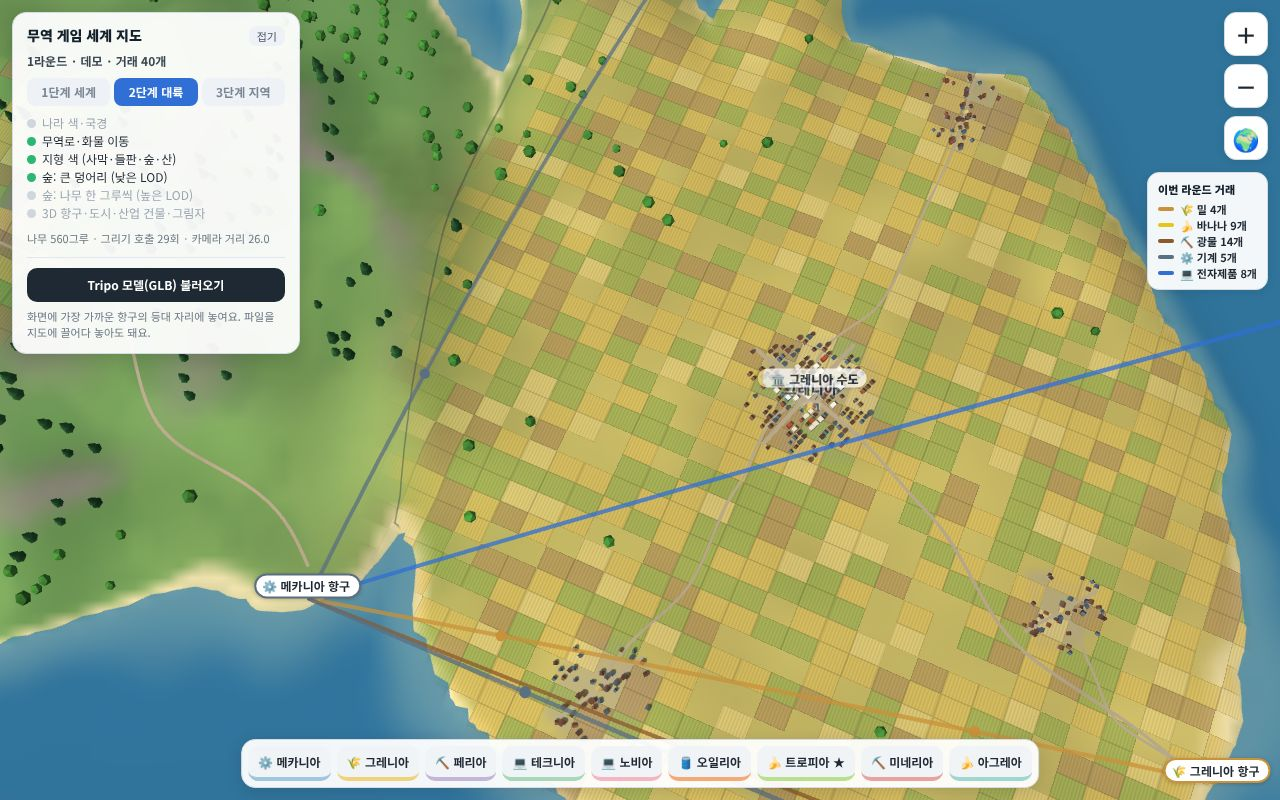
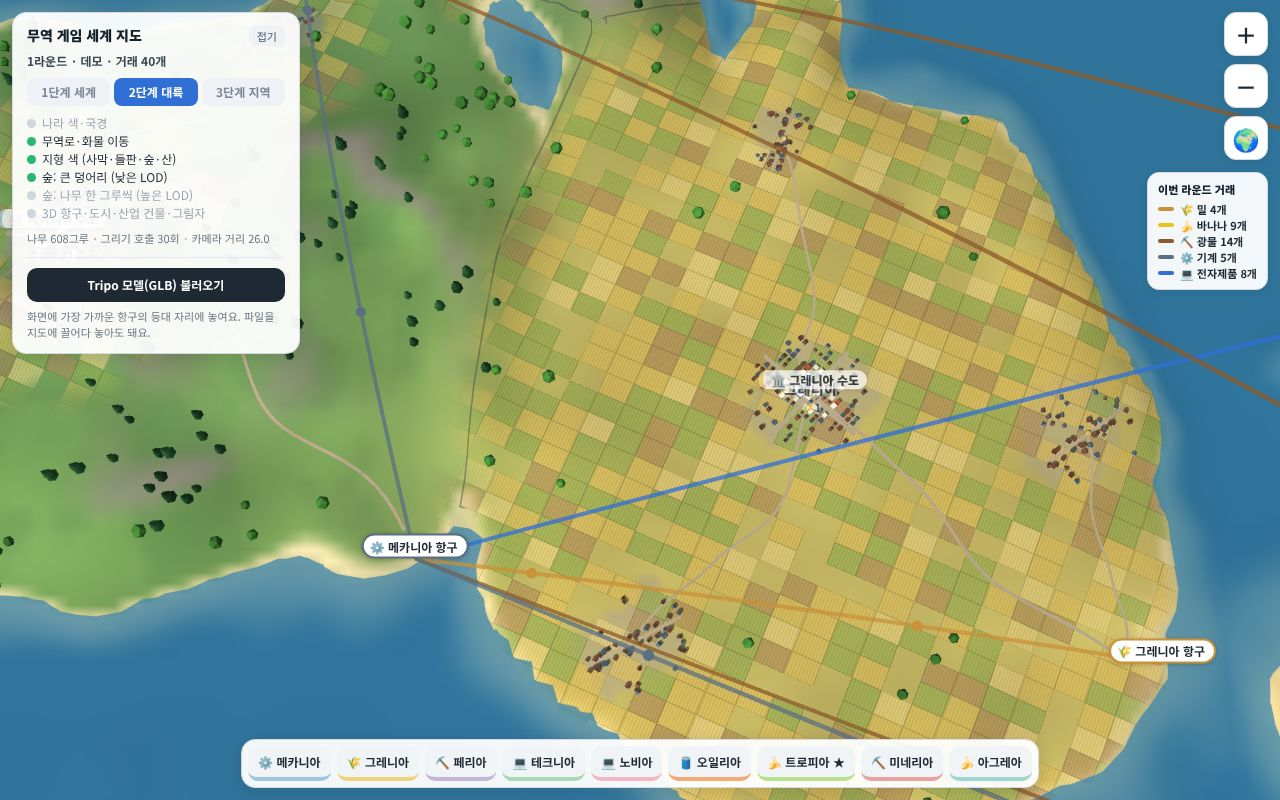
세계 지도: 세계 크기 0.65 → 0.55
나라가 조금 더 작아지고 항구·도시가 상대적으로 크게 보임. 검사 15개 통과.

Claude-Session: https://claude.ai/code/session_01DBh8zz2smfNDqNuUWMpsJ4

diff --git a/webapp/map/dist/world-map-demo.html b/webapp/map/dist/world-map-demo.html
@@ -19,7 +19,7 @@ function createWorldMap(container, THREE, opts) {
   opts = opts || {};
   // ───────────────────────── 상수 ─────────────────────────
   // 세계 크기 비율: 나라 배치·모양은 그대로 두고 전체 크기만 바꾼다(1 = 처음 크기). 항구·집·나무 크기는 그대로다.
-  var S = opts.worldScale || 0.65;
+  var S = opts.worldScale || 0.55;
   var WX = Math.round(100 * S), WZ = Math.round(62 * S), CELL = 0.25, FW = Math.round(2 * WX / CELL), FH = Math.round(2 * WZ / CELL);
   var GROUND_Y = 0.12, QUAY_TOP = 0.2;
   var DMIN = 1.6, DMAX = Math.round(190 * S);

diff --git a/webapp/map/dist/world-map-demo.jsx b/webapp/map/dist/world-map-demo.jsx
@@ -10,7 +10,7 @@ function createWorldMap(container, THREE, opts) {
   opts = opts || {};
   // ───────────────────────── 상수 ─────────────────────────
   // 세계 크기 비율: 나라 배치·모양은 그대로 두고 전체 크기만 바꾼다(1 = 처음 크기). 항구·집·나무 크기는 그대로다.
-  var S = opts.worldScale || 0.65;
+  var S = opts.worldScale || 0.55;
   var WX = Math.round(100 * S), WZ = Math.round(62 * S), CELL = 0.25, FW = Math.round(2 * WX / CELL), FH = Math.round(2 * WZ / CELL);
   var GROUND_Y = 0.12, QUAY_TOP = 0.2;
   var DMIN = 1.6, DMAX = Math.round(190 * S);

diff --git a/webapp/map/src/map-core.js b/webapp/map/src/map-core.js
@@ -5,7 +5,7 @@ function createWorldMap(container, THREE, opts) {
   opts = opts || {};
   // ───────────────────────── 상수 ─────────────────────────
   // 세계 크기 비율: 나라 배치·모양은 그대로 두고 전체 크기만 바꾼다(1 = 처음 크기). 항구·집·나무 크기는 그대로다.
-  var S = opts.worldScale || 0.65;
+  var S = opts.worldScale || 0.55;
   var WX = Math.round(100 * S), WZ = Math.round(62 * S), CELL = 0.25, FW = Math.round(2 * WX / CELL), FH = Math.round(2 * WZ / CELL);
   var GROUND_Y = 0.12, QUAY_TOP = 0.2;
   var DMIN = 1.6, DMAX = Math.round(190 * S);

diff --git a/webapp/map/world-map.js b/webapp/map/world-map.js
@@ -6,7 +6,7 @@ function createWorldMap(container, THREE, opts) {
   opts = opts || {};
   // ───────────────────────── 상수 ─────────────────────────
   // 세계 크기 비율: 나라 배치·모양은 그대로 두고 전체 크기만 바꾼다(1 = 처음 크기). 항구·집·나무 크기는 그대로다.
-  var S = opts.worldScale || 0.65;
+  var S = opts.worldScale || 0.55;
   var WX = Math.round(100 * S), WZ = Math.round(62 * S), CELL = 0.25, FW = Math.round(2 * WX / CELL), FH = Math.round(2 * WZ / CELL);
   var GROUND_Y = 0.12, QUAY_TOP = 0.2;
   var DMIN = 1.6, DMAX = Math.round(190 * S);

diff --git a/webapp/map/README.md b/webapp/map/README.md
@@ -47,7 +47,7 @@
 
 모양은 코드로 만들고 항상 같다(난수 시드 고정). 나라 배치는 `NATIONS`, 같은 대륙으로 잇는 나라는 `CONTINENTS`에 있다.
 
-**세계 크기**: `opts.worldScale`(기본 0.65, 2026-11-24 "지도가 너무 크다"로 줄임). 나라 배치와 모양은 그대로 두고 크기만 바뀐다. 항구·집·나무 크기와 레이어가 바뀌는 카메라 거리는 그대로다. 작은 나라(노비아·페리아)는 수도·마을 자리를 못 찾으면 간격·높이 조건을 조금씩 풀어서 찾는다.
+**세계 크기**: `opts.worldScale`(기본 0.55, 2026-11-24 사용자 요청으로 1 → 0.65 → 0.55). 나라 배치와 모양은 그대로 두고 크기만 바뀐다. 항구·집·나무 크기와 레이어가 바뀌는 카메라 거리는 그대로다. 작은 나라(노비아·페리아)는 수도·마을 자리를 못 찾으면 간격·높이 조건을 조금씩 풀어서 찾는다.
 
 | 나라 | 대표 산업 | 지형 | 대륙 |
 | --- | --- | --- | --- |
